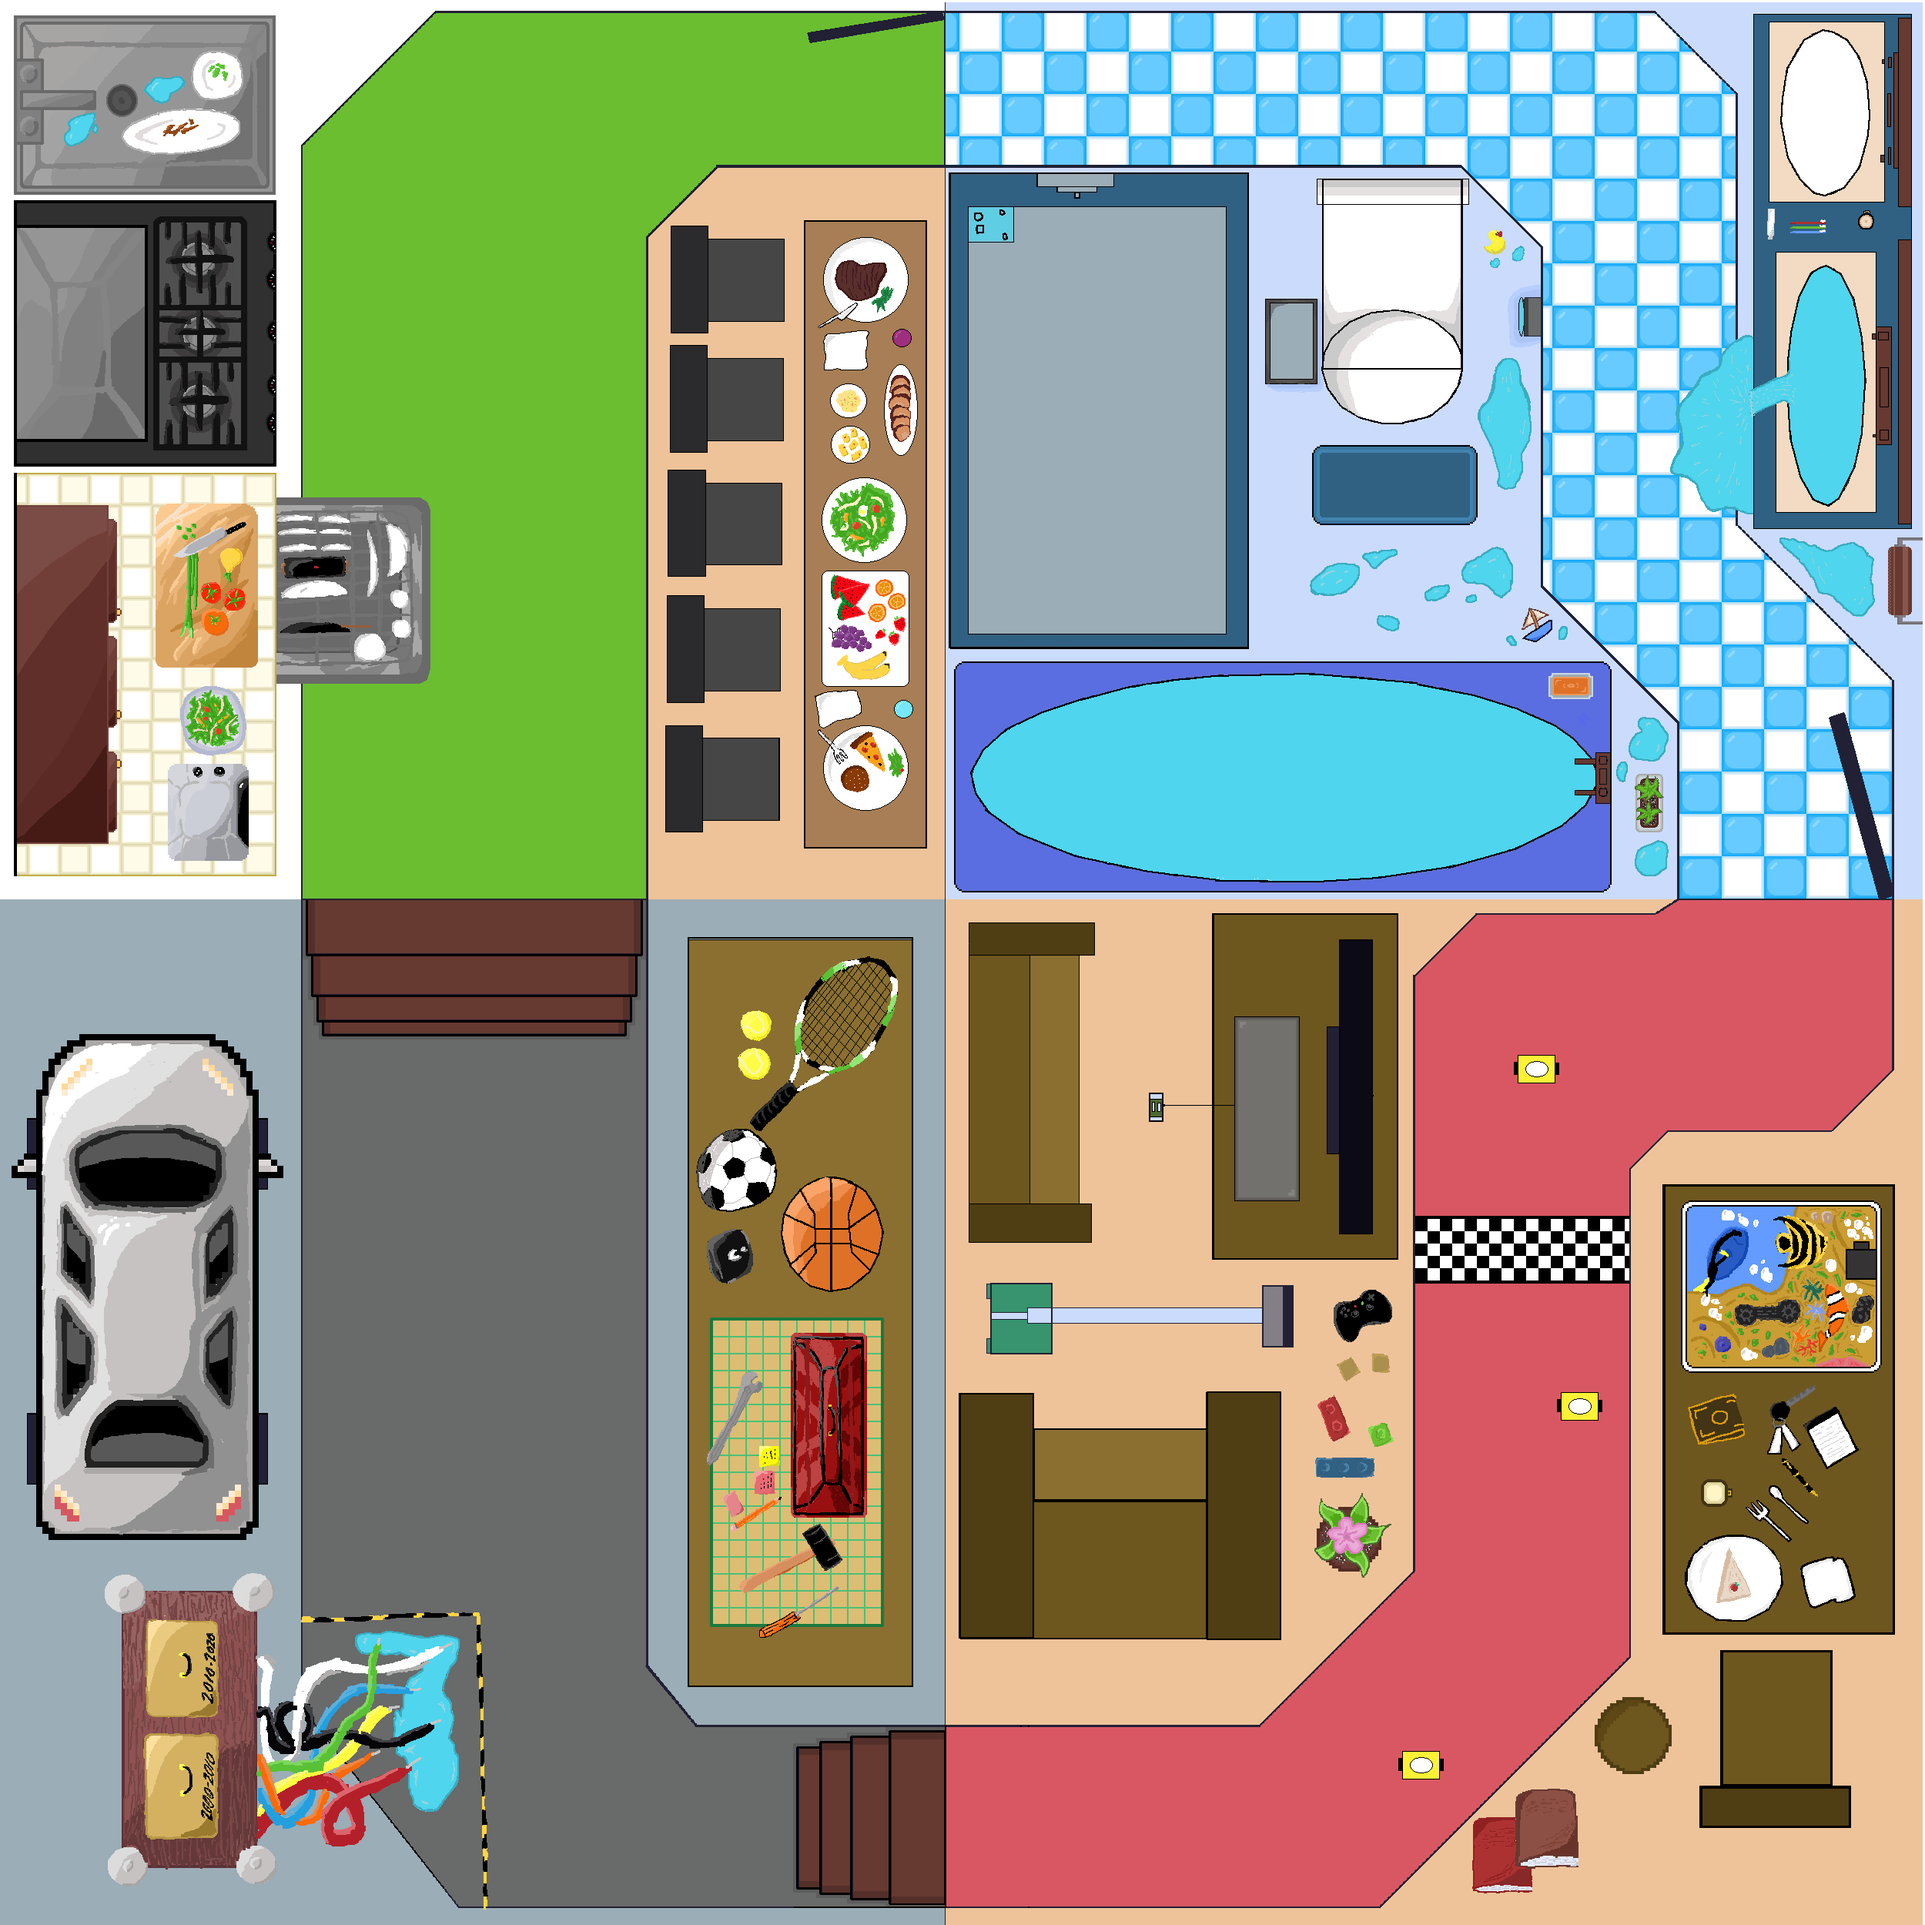
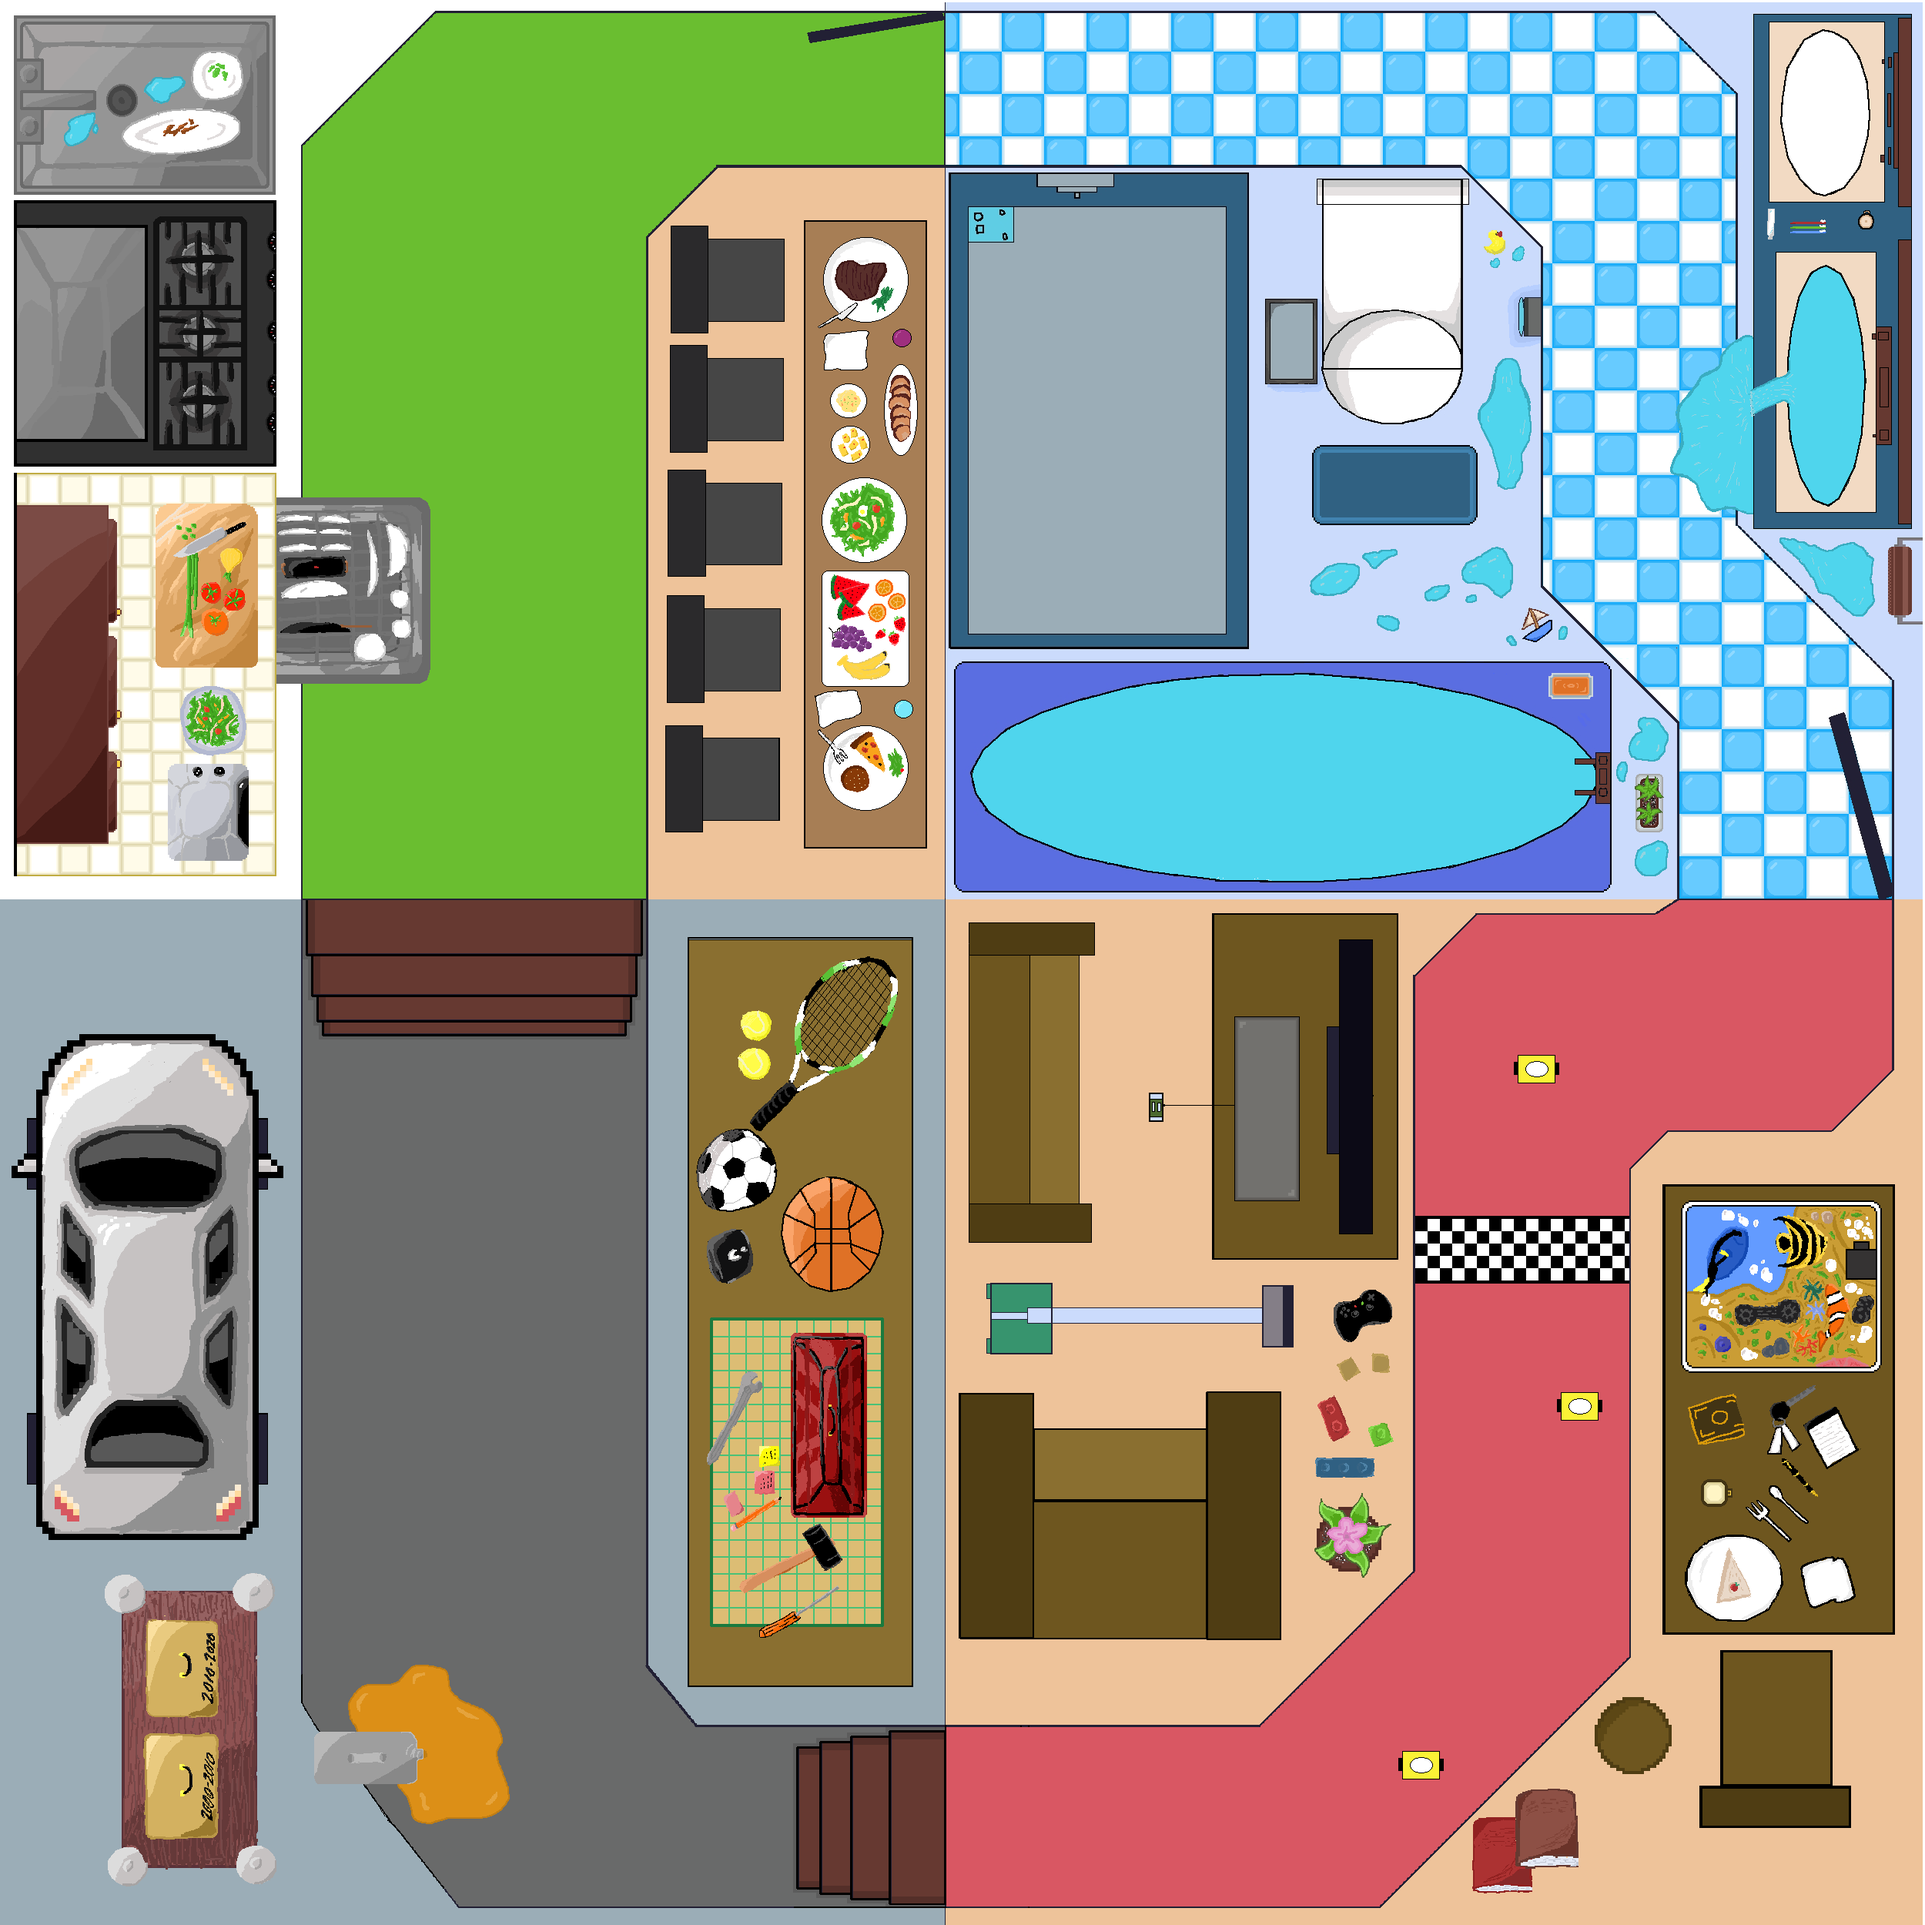
fixed map + added wall

Changed region(s): [[0.1248, 0.8424, 0.2808, 0.9672]]

diff --git a/src/scenes/PlayS.js b/src/scenes/PlayS.js
@@ -426,6 +426,31 @@ class PlayS extends Phaser.Scene {
             height: 10,
         })
         this.dishwasher3.setStatic(true);
+
+        this.oiltank = this.matter.add.sprite(-715, 1030);
+        this.oiltank.setBody({
+            type: 'rectangle',
+            width: 60,
+            height: 10,
+        })
+        this.oiltank.rotation = 1.5708; // 90 degrees
+        this.oiltank.setStatic(true);
+
+        this.oiltank2 = this.matter.add.sprite(-780, 1005);
+        this.oiltank2.setBody({
+            type: 'rectangle',
+            width: 130,
+            height: 10,
+        })
+        this.oiltank2.setStatic(true);
+        
+        this.oiltank3 = this.matter.add.sprite(-750, 1060);
+        this.oiltank3.setBody({
+            type: 'rectangle',
+            width: 80,
+            height: 10,
+        })
+        this.oiltank3.setStatic(true);
         // OBJECTS ON TRACK ------------------------------------------------
 
         // Add item box (for now)
@@ -499,6 +524,7 @@ class PlayS extends Phaser.Scene {
 
         // Add player
         this.player = this.matter.add.sprite(650, 399.9, 'player1').setOrigin(0.5, 0).setScale(2);
+        //this.player = this.matter.add.sprite(-650, 800, 'player1').setOrigin(0.5, 0).setScale(2);
 
         // Hitbox for player
         this.player.setBody({
